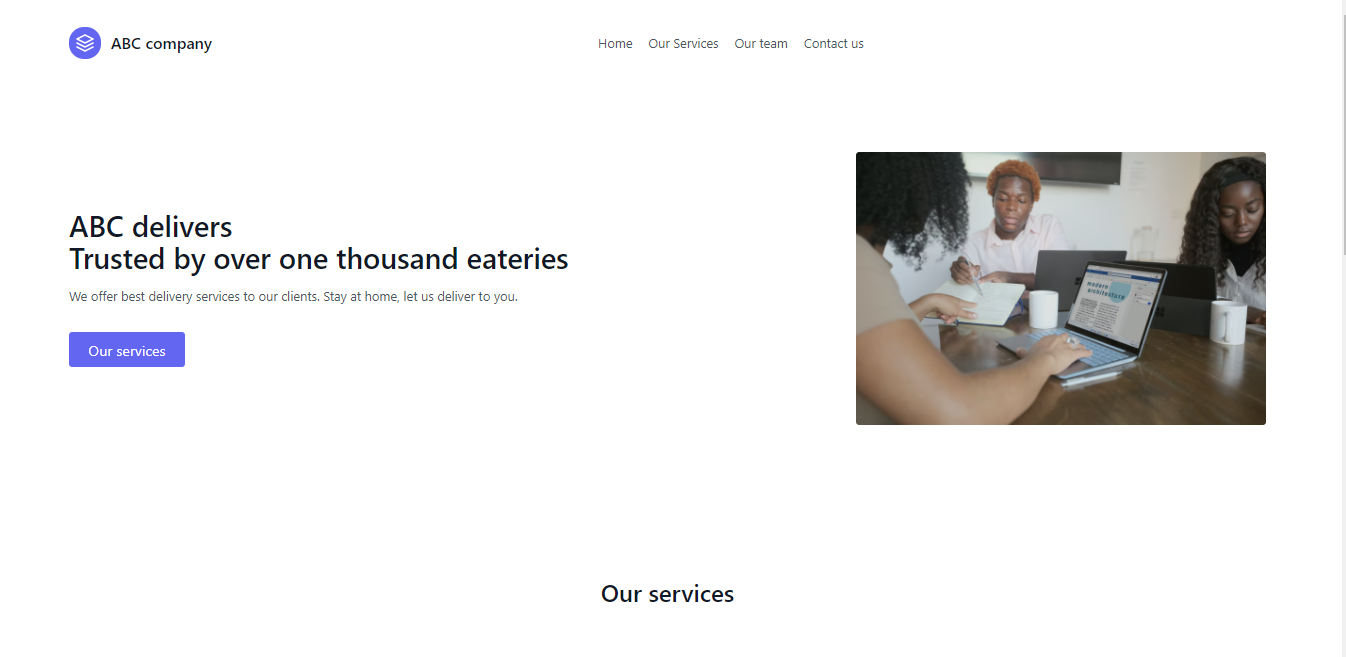
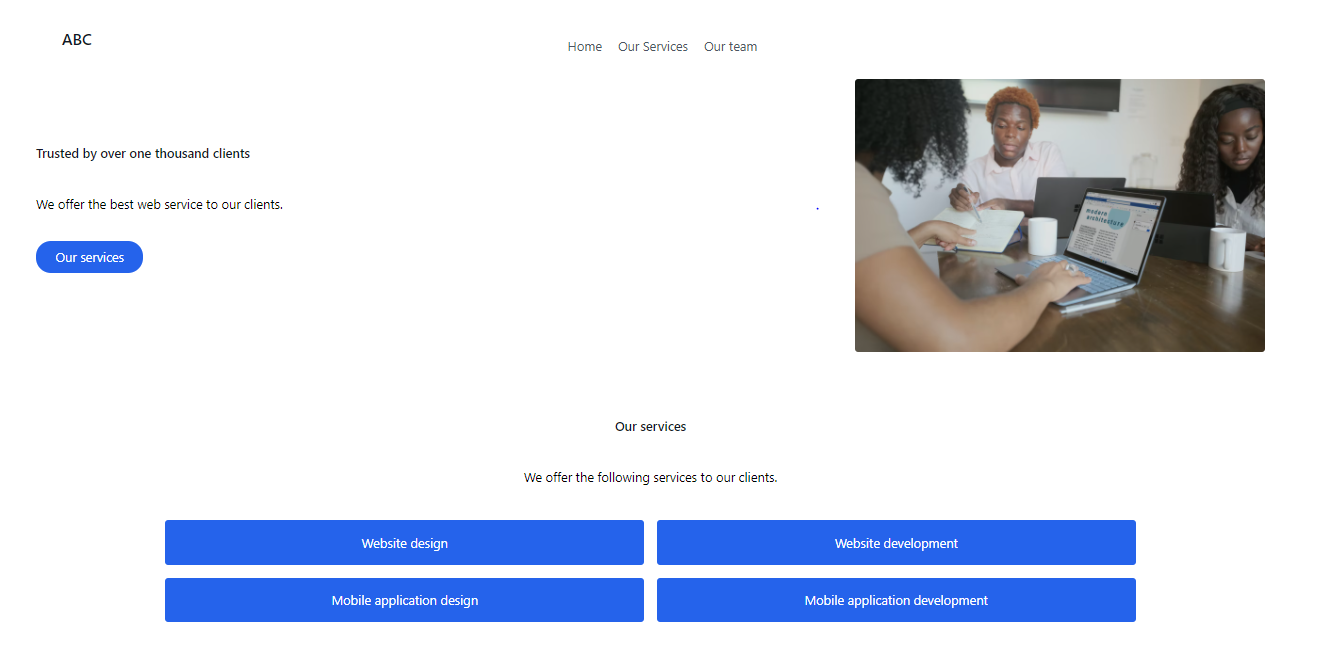
minor changes

diff --git a/content/articles/svelte-with-vite-typescript-and-tailwind-css/index.md b/content/articles/svelte-with-vite-typescript-and-tailwind-css/index.md
@@ -27,11 +27,23 @@ It then uses route-based code splitting to figure out what parts of the code nee
 
 This ES build is written in Go, making it faster than JavaScript-based bundlers such as Webpack.
 
-Some of the key feature of Vite include;
+Some of the key features of Vite include;
 
-- Bear module resolving - When you import from a package it does not contain the relative path to installed ode.js modules.
-- 
-Create a project folder and run the following command inside that folder.
+- On-demand compilation - Vite compiles your project source files as the browser requests them. The only code imported and required on the current screen/page is compiled on-demand, making your page serve fast and on-demand. This makes Vite suitable for building and serving large projects.
+- Hot Module Replacement - When you Vite bundler, all our file changes are reflected in the browser almost immediately.
+- Bear Module Resolving - When you import from a package, it does not contain the relative path to installed Node.js modules. Vite checks your packages imports, rewrites them, and performs module resolution to locate the correct files in your project's dependencies.
+- Advanced configuration options - Vite gives you control to extend the default configuration of your project. It allows you to extend, use, and run TypeScript.
+
+On the other side, TypeScript is a superset of JavaScript that allows static typing of your code. This means TypeScript includes all possible valid JavaScript features plus some extra features, functionalities, and syntax on top of it. TypeScript is compiled down into regular JavaScript so that the browser can understand it.
+
+Some of the main features TypeScript offers are;
+
+- It offers is type checking - This allows you to specify variables and functions types whenever you use them. This makes your code readable and descriptive, especially when building a large-scale project. For example, when you have a lot of different variables and functions that you need to keep track of.
+- It has static typing - Static typing means that a lot of basic errors can be caught by the compiler. This allows you to check any possible errors before runtime.
+- TypeScript offers classes - This means you can use object-oriented programming principles such as encapsulation, access modifiers, and inheritance.
+- It has support for ES6 syntax.
+
+To set up a Svelte application with Vite and TypeScript support, create a project folder and run the following command inside that folder.
 
 ```bash
 npm init vite@latest
@@ -67,12 +79,14 @@ This will create a simple TypeScript boilerplate application. You can test it by
 npm run dev
 ```
 
-On your browser, navigate to the URL that is logged on your console, e.g., `http://localhost:3000`. This will sarve you a simple TypeScript Svelte application, as shown below.
+On your browser, navigate to the URL that is logged on your console, e.g., `http://localhost:3000`. This will serve you a simple TypeScript Svelte application, as shown below.
 
 ![default-landing-page](/engineering-education/svelte-with-vite-typescript-and-tailwind-css/default-landing-page.PNG)
 
 ### Setting up Tailwind CSS
-Open a new tab on your terminal and run the following command to install TailwindCSS and its peer dependencies.
+Tailwind is a collection of CSS utility classes that allows you to write less CSS code. Tailwind enables you to use these utility classes and create responsive, animated UI components easier and faster. One of the significant reasons Tailwind is popular is because it works well with component-based JavaScript frameworks such as  Svelte, Vue, React, and Angular.
+
+To set up Tailwind for Svelte, open a new tab on your terminal and run the following command to install TailwindCSS and its peer dependencies.
 
 ```bash
 npm install -D tailwindcss@latest postcss@latest autoprefixer@latest
@@ -100,7 +114,7 @@ export default {
 }
 ```
 
-We have also included the `index.html`, and `svelte,js,ts` files on a purge to remove any unused CSS from files with such extensions.
+We have also included the `index.html`, and `svelte, js, ts` files on a purge to remove any unused CSS from files with such extensions.
 
 Also, update the `postcss.config.js` as follows.
 
@@ -167,60 +181,57 @@ Having configured Tailwind, we will create a simple portfolio page that demonstr
 #### Set up the navigation bar component
 Add the following to `Nav.svelte`.
 
-```js
+```ts
 <script>
   import * as animateScroll from "svelte-scrollto";
 </script>
 
 <header class="text-gray-600 body-font">
-    <div class="container mx-auto flex flex-wrap p-5 flex-col md:flex-row items-center">
-      <a class="flex title-font font-medium items-center text-gray-900 mb-4 md:mb-0" href="/" 
-      on:click={
-        () => {
-          window.scrollTo({
-            top:0,
-            left:0,
-            behavior:"smooth"
-          })
-        }
+  <div class="container mx-auto flex flex-wrap p-5 flex-col md:flex-row items-center">
+    <a class="flex title-font font-medium items-center text-gray-900 mb-4 md:mb-0" href="/" 
+    on:click={
+      () => {
+        window.scrollTo({
+          top:0,
+          left:0,
+          behavior:"smooth"
+        })
       }
-      >
-        <svg xmlns="http://www.w3.org/2000/svg" fill="none" stroke="currentColor" stroke-linecap="round" stroke-linejoin="round" stroke-width="2" class="w-10 h-10 text-white p-2 bg-indigo-500 rounded-full" viewBox="0 0 24 24">
-          <path d="M12 2L2 7l10 5 10-5-10-5zM2 17l10 5 10-5M2 12l10 5 10-5"></path>
-        </svg>
-        <span class="ml-3 text-xl">ABC</span>
-      </a>
-      <nav class="md:ml-auto md:mr-auto flex flex-wrap items-center text-base justify-center">
-        <a class="mr-5 cursor:pointer transition duration-500 ease-in-out hover:text-anaranjado transform hover:-translate-y-1 hover:scale-110"
-        name="navigation"
-        on:click={
-          () => 
-            animateScroll.scrollTo({
-              element:"#home",
-              offset:50
-            })
-          
-        }>Home</a>
-        <a class="mr-5 cursor:pointer transition duration-500 ease-in-out hover:text-anaranjado transform hover:-translate-y-1 hover:scale-110"  
-        name="navigation"
-        on:click={
-          () => 
-            animateScroll.scrollTo({
-              element:"#services",
-              offset:50
-            })
-          
-        }>Our Services</a>
-        <a class="mr-5 cursor:pointer transition duration-500 ease-in-out hover:text-anaranjado transform hover:-translate-y-1 hover:scale-110"
-        name="navigation"
-        on:click={
-          () => 
-            animateScroll.scrollTo({
-              element:"#team",
-              offset:50
-            })
-          
-        }>Our team</a>
+    }
+    >       
+      <h2 class="ml-3 text-xl">ABC</h2>
+    </a>
+    <nav class="md:mx-auto flex flex-wrap items-center justify-center">
+      <a class="mr-5"
+      name="navigation"
+      on:click={
+        () => 
+          animateScroll.scrollTo({
+            element:"#home",
+            offset:50
+          })
+        
+      }>Home</a>
+      <a class="mr-5"  
+      name="navigation"
+      on:click={
+        () => 
+          animateScroll.scrollTo({
+            element:"#services",
+            offset:50
+          })
+        
+      }>Our Services</a>
+      <a class="mr-5"
+      name="navigation"
+      on:click={
+        () => 
+          animateScroll.scrollTo({
+            element:"#team",
+            offset:50
+          })
+        
+      }>Our team</a>
     </nav>
   </div>
 </header>
@@ -241,14 +252,15 @@ Add the following to the `Hero.svelte` component.
 </script>
 
 <section id="home" class="text-gray-600 body-font">
-  <div class="container mx-auto flex px-5 py-24 md:flex-row flex-col items-center">
-    <div class="lg:flex-grow md:w-1/2 lg:pr-24 md:pr-16 flex flex-col md:items-start md:text-left mb-16 md:mb-0 items-center text-center">
-      <h1 class="title-font sm:text-4xl text-3xl mb-4 font-medium text-gray-900">
+  <div class="container mx-auto flex items-start justify-between">
+    <div class="py-20">
+      <h1 class="title-font text-gray-900 mb-10 title-font font-medium">
         Trusted by over one thousand clients
       </h1>
       <p class="mb-8 leading-relaxed">We offer the best web service to our clients. </p>
-      <div class="flex justify-center">
-        <button class="inline-flex text-white bg-indigo-500 border-0 py-2 px-6 focus:outline-none hover:bg-indigo-600 rounded text-lg"
+      <div class="flex items-center">
+        <button
+        class="bg-blue-600 px-6 py-2 text-white rounded-full hover:bg-blue-500 focus:outline-none focus:shadow-outline"
         on:click={
           () => animateScroll.scrollTo({
             element:"#services",
@@ -257,7 +269,7 @@ Add the following to the `Hero.svelte` component.
         }
         >Our services</button>
       </div>
-    </div>
+      </div>
     <div class="lg:max-w-lg lg:w-full md:w-1/2 w-5/6">
       <img class="object-cover object-center rounded" alt="hero" src="https://images.unsplash.com/photo-1633114127451-558041183c3b?ixlib=rb-1.2.1&ixid=MnwxMjA3fDF8MHxwaG90by1wYWdlfHx8fGVufDB8fHx8&auto=format&fit=crop&w=870&q=80">
     </div>
@@ -270,9 +282,39 @@ This displays dummy content, including a button that scrolls to the services sec
 #### Set up the services component
 Add the following to the `services.svelte` component.
 
-```js
-<p>Our services section</p>
-
+```ts
+<section id="services">
+  <div class="container mx-auto">
+    <div class="py-20">
+      <h1 class="title-font text-center text-gray-900 mb-10 title-font font-medium">
+        Our services
+      </h1>
+      <p class="mb-8 leading-relaxed text-center">We offer the following services to our clients. </p>
+      <div class="flex flex-wrap lg:w-4/5 sm:mx-auto">
+          <div class="p-2 md:w-1/2 w-full">
+              <div class="bg-blue-600 rounded p-4 text-center text-white">
+                  <p>Website design</p>
+              </div>
+          </div>
+          <div class="p-2 md:w-1/2 w-full">
+              <div class="bg-blue-600 rounded p-4 text-center text-white">
+                  <p>Website development</p>
+              </div>
+          </div>
+          <div class="p-2 md:w-1/2 w-full">
+              <div class="bg-blue-600 rounded p-4 text-center text-white">
+                  <p>Mobile application design</p>
+              </div>
+          </div>
+          <div class="p-2 md:w-1/2 w-full">
+              <div class="bg-blue-600 rounded p-4 text-center text-white">
+                  <p>Mobile application development</p>
+              </div>
+          </div>
+      </div>
+      </div>
+  </div>
+</section>
 ```
 
 Create a dummy services section from the above component.
@@ -281,7 +323,42 @@ Create a dummy services section from the above component.
 Add the following to the `Team.svelte` component.
 
 ```ts
-<p>Our team section</p>
+<section id="teams">
+    <div class="container mx-auto">
+      <div class="py-20">
+        <h1 class="title-font text-center text-gray-900 mb-10 title-font font-medium">
+          Our team
+        </h1>
+        <p class="mb-8 leading-relaxed text-center"> Our pool of talented employees </p>
+        <div class="flex flex-wrap lg:w-4/5 sm:mx-auto">
+            <div class="p-2 md:w-1/2 w-full">
+                <div class="bg-gray-400 rounded p-4 text-center ">
+                    <p>John Doe</p>
+                    <p>C.E.O/Co-founder</p>
+                </div>
+            </div>
+            <div class="p-2 md:w-1/2 w-full">
+                <div class="bg-gray-400 rounded p-4 text-center">
+                    <p>Jane Doe</p>
+                    <p>Co-founder/ Product management</p>
+                </div>
+            </div>
+            <div class="p-2 md:w-1/2 w-full">
+                <div class="bg-gray-400 rounded p-4 text-center">
+                    <p>Alex Doe</p>
+                    <p>Wed developer</p>
+                </div>
+            </div>
+            <div class="p-2 md:w-1/2 w-full">
+                <div class="bg-gray-400 rounded p-4 text-center">
+                    <p>Alice Doe</p>
+                    <p>Mobile application developer</p>
+                </div>
+            </div>
+        </div>
+        </div>
+    </div>
+</section>
 ```
 
 Create a dummy team members section from the above component.
@@ -331,9 +408,13 @@ Call the components inside the `main` section of the app.
 </main>
 ```
 
-Run your development server using `npm rum dev` and open `http://localhost:3000` on your browser to view this portfolio.
+To view this portfolio, launch your Svelte development server using `npm run dev` and then navigate to `http://localhost:3000` in your browser.
 
 ![new-landing-page](/engineering-education/svelte-with-vite-typescript-and-tailwind-css/new-landing-page.png)
+
+![our-services-section](/engineering-education/svelte-with-vite-typescript-and-tailwind-css/our-services-section.png)
+
+![our-team-section](/engineering-education/svelte-with-vite-typescript-and-tailwind-css/our-team-section.png)
 
 ### Conclusion
 This guide has illustrated how you set up a TypeScript Svelte boilerplate that you can use to write TypeScript code within a Svelte application. We also configured and used TailwindCSS to create a Svelte portfolio application.
